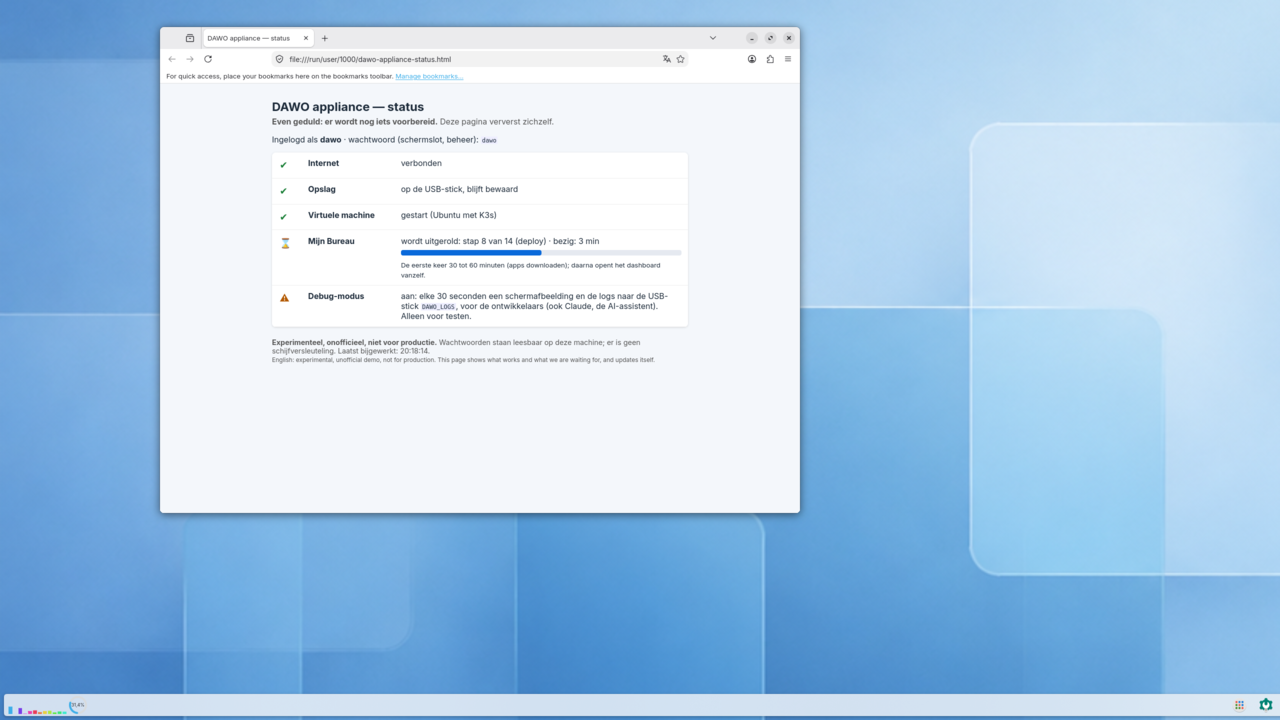
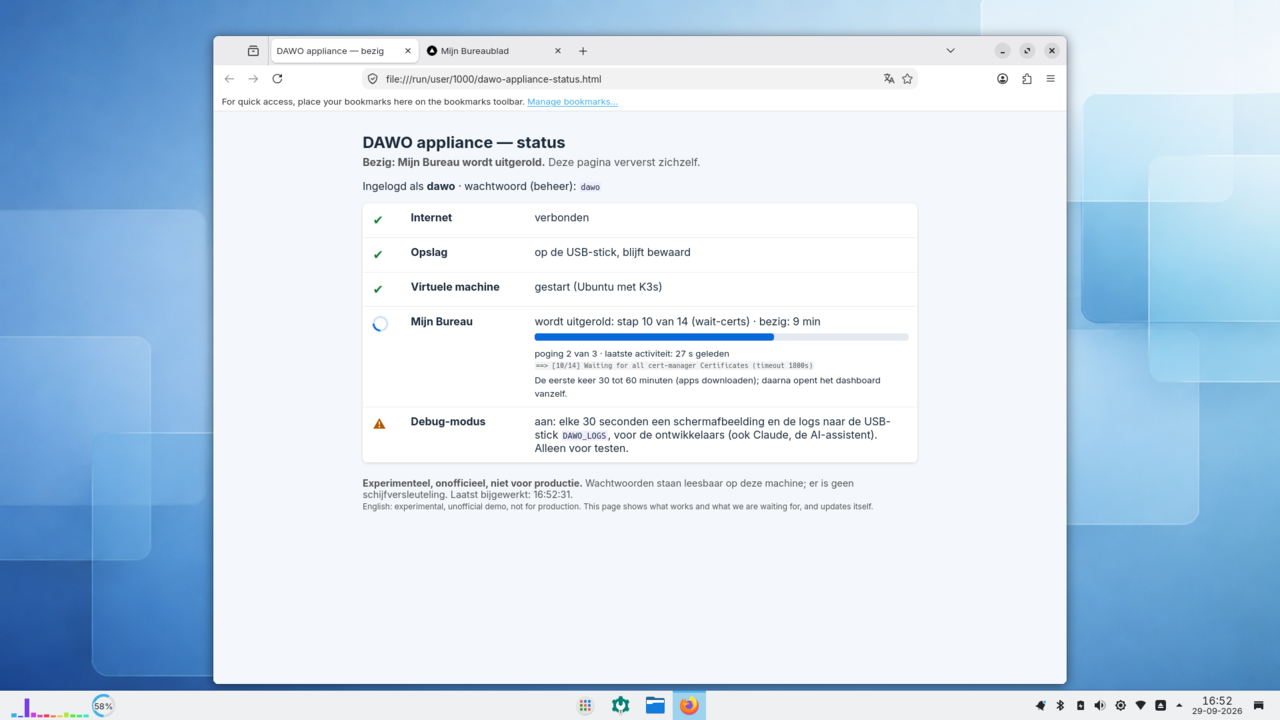
docs(readme): clearer Dutch front page with real-hardware screenshots; English status after phase 9; screenshots.sh CROP (#118)

diff --git a/README.md b/README.md
@@ -16,70 +16,44 @@
 ### 🇳🇱 Voor Gemeenten en Overheidsinstellingen (NL)
 *(English technical documentation continues below)*
 
-Gemeenten worstelen met *vendor lock-in* (zoals Microsoft 365) en strenge BIO-compliancy eisen rondom data in de cloud. Dit open-source project maakt "Digitale Soevereiniteit" tastbaar. 
+Gemeenten worstelen met *vendor lock-in* (zoals Microsoft 365) en strenge BIO-eisen rond data in de cloud. Dit open-source project maakt digitale soevereiniteit tastbaar: **steek een USB-schijf in een gewone laptop, zet hem aan, en je werkt op een complete overheidswerkplek.** Er verandert niets op de laptop zelf.
 
-Deze demonstrator installeert een compleet ecosysteem op **één enkele test-laptop**:
-1. **De Werkplek (DAWO):** Een veilig alternatief voor Windows, precies zoals gebruikt in de huidige BZK-pilots.
-2. **De Samenwerkingssuite (Mijn Bureau):** Een lokaal draaiend alternatief voor OneDrive, Word en Excel (Nextcloud & Collabora).
+Op de USB-schijf staat alles:
+1. **De werkplek (DAWO):** het veilige Linux-bureaublad uit de BZK-pilots, met dezelfde programma's.
+2. **De samenwerkingssuite (Mijn Bureau):** een lokaal draaiend alternatief voor OneDrive, Teams en Office (Nextcloud, Collabora, Element), met één inlog.
 
-**Het grote voordeel:** Alle documenten en data blijven 100% lokaal op de laptop staan. Er gaat geen enkele byte naar commerciële cloud-providers. Je kunt dit systeem volledig risicovrij [uitproberen via een opstartbare USB-stick](docs/demo-hardware.md). 
+**Het grote voordeel:** alle documenten en data blijven op de USB-schijf. Er gaat geen byte naar commerciële cloud-providers.
+
+#### In beeld (echte schermafbeeldingen van een testlaptop)
+
+| Mijn Bureau installeert zichzelf | De voortgang, stap voor stap |
+| --- | --- |
+| [![De statuspagina terwijl Mijn Bureau zijn apps installeert: draaiend symbool, laatste activiteit en de laatste regel van het logboek](docs/screenshots/live-status-deploying.png)](docs/screenshots/live-status-deploying.png) | [![De statuspagina bij stap 10 van 14: stap 1 tot en met 9, waaronder de installatie van alle apps, zijn gelukt](docs/screenshots/live-status-page-dell.png)](docs/screenshots/live-status-page-dell.png) |
+| Na het opstarten opent een statuspagina die laat zien wat werkt en waar het systeem op wacht. | Stap 1 tot en met 9 lukten op de testlaptop; stap 8, de installatie van alle apps, duurde 6 minuten. |
+
+<sub>Gemaakt door de debug-modus van de USB-schijf op een Dell Latitude 5550, alleen bijgesneden (herkomst: [`docs/screenshots/HARDWARE.md`](docs/screenshots/HARDWARE.md)).</sub>
+
+#### Stand van zaken (29 september 2026)
+
+| | |
+| --- | --- |
+| ✅ **Werkt** | Opstarten van USB zonder de laptop te veranderen · werkplek na 20 seconden · virtuele machine en Kubernetes binnen een minuut · gegevens blijven bewaard · netjes afsluiten · statuspagina met voortgang |
+| ✅ **Werkt** | Mijn Bureau installeert zichzelf: stap 1 tot en met 9 van 14 gelukt, inclusief alle apps |
+| 🔄 **Bezig** | Stap 10 tot en met 14 (certificaten, inloggen koppelen): de laatste fout is gevonden en opgelost; de volgende sessie op de testlaptop moet het bevestigen |
+| ⏭ **Daarna** | Inloggen in Mijn Bureau en het dashboard in de browser, met schermafbeeldingen |
+
+De technische details per stap staan hieronder in het Engelse deel en in de [issues op GitHub](https://github.com/EduardWitteveen/dawo-appliance/issues).
+
+#### Wat heb je nodig?
+
+- Een laptop met **32 GB geheugen** en virtualisatie aan in de BIOS (met 8 GB start alleen de werkplek).
+- Een **USB-SSD van 64 GB of meer**. Een gewone USB-stick slijt snel van het schrijfwerk van de virtuele machine.
+- **Internet**, de eerste keer, om Mijn Bureau te downloaden (ongeveer 10 minuten).
+- Meer: [hardware-vereisten](docs/demo-hardware.md) en [de USB-schijf maken](docs/live-usb.md).
 
 **Veelgestelde vragen:**
-- *Is dit officieel?* Nee, dit is een onafhankelijk experiment (v0.1) gebaseerd op de officiële broncode van de Rijksoverheid.
-- *Kan dit morgen in productie?* Nee, dit is bedoeld voor evaluatie en bestuurlijke demo's. 
-
-**Stand van zaken (28 september 2026)**
-
-*Wat al werkt, op een gewone laptop (Dell Latitude 5550):*
-- De USB-stick start de laptop zonder iets op de harde schijf te veranderen. Na
-  20 seconden staat de DAWO-werkplek klaar; binnen een minuut draaien de
-  virtuele machine en Kubernetes (K3s).
-- Een statuspagina in de browser laat zien wat werkt en waar we op wachten, met
-  een voortgangsbalk voor Mijn Bureau.
-- Gegevens blijven op de stick bewaard: de volgende keer gaat hij verder waar hij
-  was.
-- Afsluiten gaat netjes (ook met de aan/uit-knop), en Windows heeft daarna de
-  juiste tijd.
-- Mijn Bureau rolt zichzelf uit zodra er internet is. De laatste sessie kwam tot
-  stap 8 van 14: de eigenlijke installatie van de apps.
-
-*Waar we nu mee bezig zijn:*
-- Stap 8 stopte bij een back-uponderdeel dat Mijn Bureau standaard aanzet, maar
-  dat een back-upsysteem (Velero) nodig heeft dat op de laptop niet bestaat.
-  Back-ups staan voor deze demo nu uit
-  ([#127](https://github.com/EduardWitteveen/dawo-appliance/issues/127)). Die
-  oplossing kwam de vorige keer nog niet aan, omdat de stick de al gedane stappen
-  niet opnieuw deed; dat gebeurt nu wel na een update
-  ([#131](https://github.com/EduardWitteveen/dawo-appliance/issues/131)).
-- Door de hele installatie van tevoren na te bootsen vonden we de volgende
-  struikelsteen al: twee extra apps die Mijn Bureau standaard aanzet (Drive en
-  Conversations) passen niet op de laptop en hebben een fout in hun
-  configuratie. Die staan nu uit
-  ([#134](https://github.com/EduardWitteveen/dawo-appliance/issues/134)).
-- De statuspagina laat nu duidelijk zien dat hij bezig is (draaiend
-  symbooltje, laatste activiteit) of dat er iets mis ging (rode balk), en de
-  laptop gaat tijdens de installatie niet meer slapen
-  ([#132](https://github.com/EduardWitteveen/dawo-appliance/issues/132)).
-- Mijn Bureau bleef eerder twee keer steken bij stap 3. De oorzaak was de klok: de
-  laptop liep na het opstarten 2 uur voor, en van die tijdsprong raakte
-  Kubernetes in de war. Dat is opgelost
-  ([#124](https://github.com/EduardWitteveen/dawo-appliance/issues/124)); stap 3
-  tot en met 7 gaan nu goed.
-- De melding van de KDE-wachtwoordkluis (KWallet) komt niet meer
-  ([#128](https://github.com/EduardWitteveen/dawo-appliance/issues/128)).
-- De virtuele machine start zichzelf opnieuw op als zijn Linux-kernel crasht,
-  en de logboeken op de stick bevatten nu altijd zijn scherm-uitvoer
-  ([#119](https://github.com/EduardWitteveen/dawo-appliance/issues/119)).
-- Er is een hulpmiddel om de stick te maken, bij te werken en de logboeken uit te
-  lezen, op Windows en Linux ([#97](https://github.com/EduardWitteveen/dawo-appliance/issues/97)).
-
-*Volgende stap:* Mijn Bureau volledig uitgerold op de laptop en het dashboard
-open in de browser.
-
-![De statuspagina van de live-USB op een Dell Latitude 5550: internet, opslag op de stick, virtuele machine, Mijn Bureau bij stap 8 van 14](docs/screenshots/live-status-page-dell.png)
-
-*Echte schermafbeelding van de testlaptop, gemaakt door de debug-modus van de stick
-(herkomst: [`docs/screenshots/HARDWARE.md`](docs/screenshots/HARDWARE.md)).*
+- *Is dit officieel?* Nee, dit is een onafhankelijk experiment (v0.1) op basis van de officiële broncode van de Rijksoverheid.
+- *Kan dit morgen in productie?* Nee, het is bedoeld voor evaluatie en bestuurlijke demo's. Wachtwoorden staan leesbaar op de schijf en er is geen versleuteling.
 
 ---
 
@@ -114,7 +88,9 @@ boot test; the password in the picture is the test suite's throwaway one.*
 steps that would run, and "NO DISK WRITES PERFORMED".*
 
 Both pictures are captured by the automated boot tests of the pinned
-configuration (software-rendered VM), never by hand. Provenance and rules:
+configuration (software-rendered VM), never by hand. The live USB on real
+hardware is shown in the Dutch section above (debug-mode screenshots from the
+stick, only cropped). Provenance and rules:
 [`docs/screenshots/`](docs/screenshots/README.md).
 
 ## Status
@@ -132,21 +108,31 @@ independently runnable. Session handoff: [`docs/STATUS.md`](docs/STATUS.md).
 | 4a | Ubuntu 24.04 VM: libvirt network + guest domain + cloud-init (`hosts/appliance/guest-vm.nix`) | Boot-tested (`test-guest-boot`, live tests); runs on real hardware (Dell, guest SSH after 26 s); firmware-crash reset under nested KVM (#24) |
 | 4b | Per-install appliance CA + host/browser trust (`hosts/appliance/appliance-ca.nix`); CA cert+key transported into the guest at `/etc/dawo-appliance/{ca.crt,ca.key}` (issue #6) | Built 2026-09-25; guest CA transport added 2026-09-26, `nix flake check` passes; boot-test assertions written for both, not yet run on a KVM machine |
 | 5 | Single-node K3s installer, pinned + offline-tested (`k8s/bootstrap/install-k3s.sh`) | Air-gap install boot-tested 2026-09-26: node Ready in the guest after 227 s (`test-guest-boot`, #7) |
-| 6 | Mijn Bureau deploy driver (Helmfile, pinned rev) | Laptop profile (five core apps, `micro` preset; ADR 0007). On the live USB it deploys itself once K3s and internet are up; on the Dell (2026-09-28 evening) phases 1–7 ran and phase 8 (`helmfile apply`) stopped at `openproject-backups`, which needs Velero (upstream default `backup.enabled: true`; now off, #127, U2). Earlier stops at phase 3 were caused by a 2 h clock jump (#124, fixed). Mijn Bureau has not run end-to-end yet |
-| 7 | Health check + auto-open browser, offline-tested | Runs on the desktop (seen in VirtualBox 2026-09-27); two start-up bugs fixed (#98, #100) and guarded by `checks.health-selfcontained`; never observed a real Mijn Bureau deployment |
-| Live | Live USB: boot an existing laptop, disk untouched, data and debug logs on a `DAWO_LOGS` stick (ADR 0006, accepted) | KVM tests green 2026-09-28 (`test-live-iso-boot`, `test-live-iso-persist`: data reused across boots, clean power-off). Real hardware, Dell Latitude 5550, 2026-09-28 evening: desktop 21 s, guest SSH 34 s, K3s Ready 42 s (data reused from the stick, clock right after #124); the status page shows the progress; Mijn Bureau deployed itself through phase 7 and stopped in phase 8 (#127). Dynabook (8 GB): desktop only, guest skipped as designed. Screenshot: [`HARDWARE.md`](docs/screenshots/HARDWARE.md) |
+| 6 | Mijn Bureau deploy driver (Helmfile, pinned rev) | Laptop profile (five core apps, `micro` preset; ADR 0007). On the live USB it deploys itself once K3s and internet are up. Dell, 2026-09-29 (USB SSD): phases 1–9 passed, phase 8 (`helmfile apply`, 13 releases) in 338 s; phase 10 stopped in our own digest check after all 6 certificates were ready (#140, fixed). Phases 11–14 not yet seen |
+| 7 | Health check + auto-open browser, offline-tested | First real pass on the Dell 2026-09-29: all 9 checks OK after 552 s. On the live USB the browser now opens only when the deployment is done (#143) |
+| Live | Live USB: boot an existing laptop, disk untouched, data and debug logs on a `DAWO_LOGS` stick (ADR 0006, accepted) | KVM tests green 2026-09-28 (`test-live-iso-boot`, `test-live-iso-persist`: data reused across boots, clean power-off). Real hardware, Dell Latitude 5550, 2026-09-29, fresh USB SSD: desktop 23 s, guest SSH 37 s, K3s Ready 49 s; Mijn Bureau through phase 9 (see row 6). Dynabook (8 GB): desktop only, guest skipped as designed. The first SanDisk USB stick died after two days of VM writes (#139): use a USB SSD. Screenshots: [`HARDWARE.md`](docs/screenshots/HARDWARE.md) |
 
 **What works today:** the **live USB** boots an existing laptop without touching
 its disk: the DAWO workplace (SDDM + KDE Plasma 6, the pilot app set, nl_NL)
 comes up in about 20 s, the Ubuntu guest and single-node K3s in under a minute
 on a 32 GB laptop, and a self-updating status page shows what works and what
 we are waiting for. Data (the guest disk) persists on the stick across boots.
-Mijn Bureau's deployment starts by itself and has reached phase 8 of 14 (the
-actual `helmfile apply`) on real hardware; it has not yet run end-to-end, and the health check has not yet seen
-a real dashboard. The installer ISO (Slices 1–2) installs the same host to an
-explicitly confirmed disk. Details per slice: `docs/roadmap.md`; the live USB:
-[`docs/live-usb.md`](docs/live-usb.md). Running Mijn Bureau needs a large host
-(see below).
+Mijn Bureau's deployment starts by itself and has passed phase 9 of 14 on real
+hardware, including the full `helmfile apply`; the health check saw a healthy
+dashboard. It has not yet run end-to-end (phases 10–14). The installer ISO
+(Slices 1–2) installs the same host to an explicitly confirmed disk. Details
+per slice: `docs/roadmap.md`; the live USB: [`docs/live-usb.md`](docs/live-usb.md).
+Running Mijn Bureau needs a large host (see below).
+
+**Found on real hardware, fixed with a check each** (live USB, Dell Latitude
+5550, 2026-09-27..29): shutdown hang via Plasma's power-key handling (#115); a
+2 h clock jump from `rtc_cmos` undoing the local-time RTC warp, which broke K3s
+(#124); guest firmware/kernel crashes under nested KVM (#24, #119); phase
+markers surviving a driver update (#131); upstream defaults that fail on a
+laptop: Velero backups (#127) and Drive/Conversations (#134, found by an
+offline `helmfile template` pre-flight); a KWallet wizard at autologin (#128);
+the status page not showing progress (#132, #143). Upstream issues stay in our
+tracker (label `upstream`, U-rows in [`docs/deviations.md`](docs/deviations.md)).
 
 ## Verification
 

diff --git a/docs/screenshots/HARDWARE.md b/docs/screenshots/HARDWARE.md
@@ -8,4 +8,5 @@ nothing else. Rules: [`README.md`](README.md).
 
 | Image | Machine | Session (UTC boot time_boot id) | Captured (local time) | Original SHA-256 | What it shows |
 | --- | --- | --- | --- | --- | --- |
-| `live-status-page-dell.png` | Dell Inc. Latitude 5550 | `20260928T181335Z_f2a3b727` | 2026-09-28 20:18:20 | `3648a47073615ba4…` | The live USB on a Dell Latitude 5550: the status page while Mijn Bureau deploys at step 8 of 14 (helmfile apply), after steps 1-7 passed. |
+| `live-status-page-dell.png` | Dell Inc. Latitude 5550 | `20260929T144234Z_5f4f1f4d` | 2026-09-29 16:52:37 | `32c3641e6e58db7e…` | The live USB on a Dell Latitude 5550 (USB SSD): the status page at step 10 of 14 (waiting for certificates) with the attempt counter and the latest log line; steps 1-9, including installing all apps, passed. |
+| `live-status-deploying.png` | Dell Inc. Latitude 5550 | `20260929T144234Z_5f4f1f4d` | 2026-09-29 16:47:23 | `fb4c048c2a5e7bff…` | The same session while Mijn Bureau installs its apps (step 8 of 14): spinner, time since the last activity, latest log line. |
